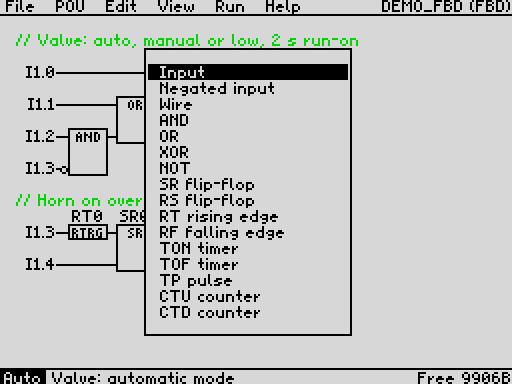
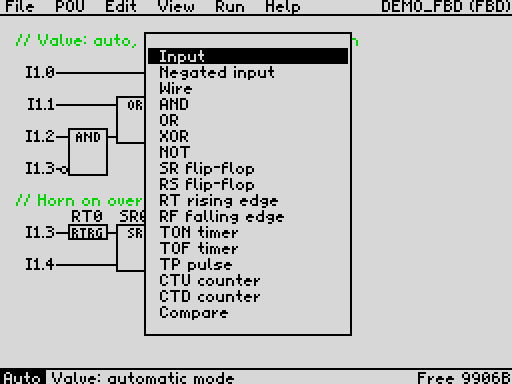
FBD: compare block and compute output
Compare (G) is a 2-row block GT / GE / EQ / NE / LE / LT: the value and
the value to compare with are written on the left of its rows (like the
PT of a timer; fb_prow treats both rows as preset cells), its output is
A op B. It is typed as one expression (MW3<50), ENTER on the block or a
value edits it, and the simulation colours it by its monitor bit.
Compute (M) is an output: D := A op B while its signal is TRUE (also in
the output column). fb_cls maps compute to the output rules; the old
element's operands are kept for the "no room" undo.

The small block font gets E and Q. Manual, README, CLAUDE.md and the
picker screenshots updated.

Claude-Session: https://claude.ai/code/session_01VKWfWeHqdVXUCm7FCj2M63

Changed region(s): [[0.2812, 0.0625, 0.6875, 0.75], [0.3125, 0.7812, 0.5, 0.8438]]

diff --git a/docs/MANUAL.md b/docs/MANUAL.md
@@ -262,7 +262,17 @@ comment of the element (for boxes: the instance and its PT / PV).
 | `V` | vertical link at the right edge (parallel branch) | |
 | `T` / `F` / `U` | TON / TOF / TP timer box | |
 | `K` / `D` | CTU / CTD counter box | |
+| `G` | compare contact `MW1>5` | |
+| `M` | | compute coil `MW2:=MW1+5` |
 
+* **Compare and compute** work with words (`MW`, numbers, `T#` times, `ET` / `CV` / `PT` / `PV` of FB
+  instances). The expression is typed on one line:
+  * compare: `A op B` with `>` `>=` `=` `<>` `<=` `<`, e.g. `CTU0.CV>=3`. The contact passes the power
+    when it is true; in the simulation it is green while true.
+  * compute: `D:=A op B` with `+` `-` `*` `/`, or `D:=A` (copy), e.g. `MW2:=MW2+1`. D must be an `MW`.
+    It runs in every scan in which the coil gets power.
+  * The expression is the label, the operator is shown in the symbol (`-[>]-`, `-[+]-`), the status bar
+    shows it in full. ENTER and the same key edit it.
 * **Placing elements:**
   * After a new element the cursor moves on.
   * Empty positions on the left are filled with wires.
@@ -305,6 +315,8 @@ ENTER opens the picker. On a block input, outputs are not offered:
 | `P` / `E` | RT rising edge / RF falling edge |
 | `T` / `F` / `U` | TON / TOF / TP timer (2 rows: IN, PT) |
 | `K` / `D` | CTU / CTD counter (3 rows: CU, R or CD, LD, then PV) |
+| `G` | compare block GT / GE / EQ / NE / LE / LT (2 rows: the value, the value to compare with) |
+| `M` | compute output `-MW2:=MW1+5` (right behind a block, or in the output column) |
 
 * **Presets:** a timer has its preset PT on its second row and a counter its PV on its third row. The
   value is written on the left of the row (`T#2s--PT`, `3--PV`). `T` on the block or on that cell edits
@@ -312,6 +324,12 @@ ENTER opens the picker. On a block input, outputs are not offered:
 
   ![Editing the PV of a counter](img/fbd_pv.png)
 
+* **Compare:** the block compares two words, written on the left of its rows (`MW3--` and `50--`), and its
+  output is TRUE when the comparison holds (green in the simulation). It is typed as one expression like
+  in LD (`MW3<50`), and the block is named after the operator (`LT`). ENTER on the block or on a value edits
+  it.
+* **Compute:** an output that runs `D:=A op B` (`+` `-` `*` `/`, or `D:=A`) in every scan in which its
+  signal is TRUE. Its text may be cut on the screen; the status bar shows it in full.
 * **The cursor** stands only on block inputs, blocks and outputs. It skips the cells inside a block.
 * **Outputs and wires** need a signal from the left. Inputs placed left of a block input are wired to
   it automatically.

diff --git a/CLAUDE.md b/CLAUDE.md
@@ -28,7 +28,7 @@ on tape. See README.md for the user-facing description of every editor and key.
   per image, `--noborder`). Update the manual and the scripts when the UI changes.
 - `python3 tools/fixjr.py main.asm`: builds and converts every out-of-range `jr` to `jp` in the source,
   then prints the remaining errors. Run it after edits that make code longer.
-- `python3 tools/xref.py --check "pou:R,app:E,il_edit:E,sym_edit:E,ld_edit:E,sim:E,demo:E,il_comp:R,vm:R,ld_comp:R,fbd_comp:R,tape:R,tests:E,fbd_edit:F,tools:D,clip:D"`:
+- `python3 tools/xref.py --check "pou:R,app:E,il_edit:E,sym_edit:E,ld_edit:E,sim:E,demo:E,il_comp:R,vm:R,ld_comp:R,fbd_comp:R,tape:R,tests:E,fbd_edit:F,tools:D,clip:D,wexpr:D"`:
   reports labels referenced across paged banks without `BCALL`. Unlisted modules are core. The
   `run_tests` / `demo_build` hits in main.asm are expected. Extend the map when a module moves.
 - Headless emulator: `.scratch/venv/bin/python tools/zxrun.py zxplc.sna -f 30 -s "<script>"`
@@ -103,6 +103,11 @@ on tape. See README.md for the user-facing description of every editor and key.
   - FBD type codes (FT_*, defs.asm) reuse the LD codes for wire, timers and comment, so the shared
     record-length logic works. Bit 7 means negation in FBD and the vertical link in LD.
   - An FBD block with h inputs covers h rows. Timers have 2 rows (IN, PT).
+  - Word compare / compute (`LT_CMP` / `LT_MATH` = `FT_CMP` / `FT_MATH`, defs.asm): 10 / 12 B records with
+    the operands `[A area lo hi][op][B area lo hi][D area idx]`. `ld_get` copies them to `ld_gext`,
+    `ld_put` writes them back. The expression input / text is `src/wexpr.asm` (DEMO bank). In LD a compare
+    is a contact and compute a coil; in FBD a compare is a 2-row block (A, B on the left of its rows,
+    handled like preset cells by `fb_prow`) and compute an output.
 - **Compile and run:**
   - `il_compile` (RUN) compiles every POU to 5-byte bytecode `[op][mode][arg lo][arg hi][arg3]`:
     IL in two passes, LD and FBD column by column with scratch bits S[row] (src/ld_comp.asm,

diff --git a/README.md b/README.md
@@ -154,6 +154,8 @@ The letter keys below work as shortcuts both in the editor and in the picker.
 | `-` (SS+J) | wire | |
 | `T` / `F` / `U` | TON / TOF / TP timer box (`T` on an existing timer box: edit only its PT) | |
 | `K` / `D` | CTU / CTD counter box (`T` on it: edit only its PV) | |
+| `G` | compare contact `-[>]-` (`MW1>5`: `>` `>=` `=` `<>` `<=` `<`) | |
+| `M` | | compute coil `-[+]-` (`MW2:=MW1+5`: `+` `-` `*` `/`, or `MW2:=MW1`) |
 
 Timer boxes `[TON]`, `[TOF]`, `[TP]` sit on a contact position: the power from the left is the input IN, the
 output Q powers the rest of the row. The box asks for the instance (`TON1` or its symbol) and the preset time
@@ -193,6 +195,8 @@ ENTER opens the picker (shortcut keys in brackets):
 | output (Q), negated output (W) - e.g. right behind a block | |
 | TON (T), TOF (F), TP (U) - two rows: IN and the PT input (`T#4s--PT` on the left of the second row); ENTER or `T` on the PT input or `T` on the timer edits PT | |
 | CTU (K), CTD (D) - three rows: CU and R (CTD: CD and LD) and the PV input (`10--PV`), edited like PT | |
+| compare (G) - a block GT / GE / EQ / NE / LE / LT with the two values on the left of its rows, typed as `MW3<50` | compute (M) |
+| compute (M) - `MW2:=MW1+5` when the signal is TRUE | |
 
 A block with h inputs covers h rows: input k comes from the left on the k-th row, the output leaves on the
 top row to the right, so blocks can be chained (e.g. an OR one row lower feeding the second input of an
